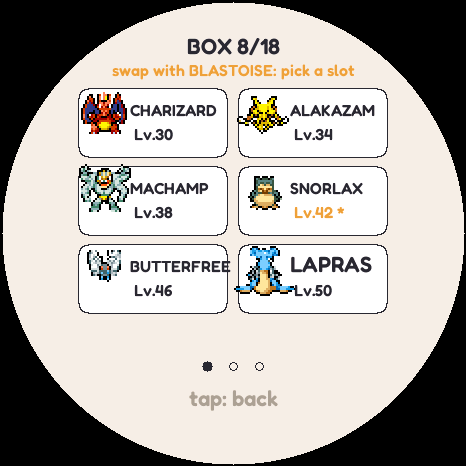
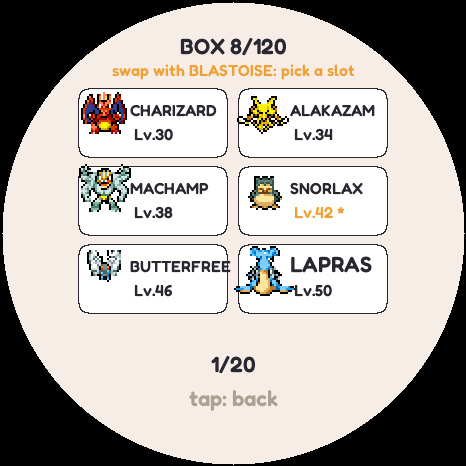
Grow the box from 18 to 120 slots
The box blob goes from 540 B to 3600 B, still under the ~4000 B single-page
NVS limit. A box saved at 18 slots is read as a prefix and rewritten at the
new size once; without that branch the grown box came up empty.

EXPORT would have dropped the box: MAX_VAL was a fixed 768 and readField()
skips anything larger as if absent. It now derives from BOX_SLOTS, and the
console's export/import buffers are SAVE_EXPORT_MAX, static_asserted against
the party and box sizes and allocated on first use.

The box screen shows a page number instead of dots, which no longer fit.

Changed region(s): [[0.3906, 0.0601, 0.6309, 0.1202], [0.4206, 0.7511, 0.5708, 0.8112]]

diff --git a/save.cpp b/save.cpp
@@ -1,4 +1,5 @@
 #include "save.h"
+#include "party.h"
 #include <Arduino.h>
 #include <Preferences.h>
 #include <string.h>
@@ -42,7 +43,11 @@ const SaveField SAVE_FIELDS[] = {
 };
 const uint16_t SAVE_FIELD_COUNT = sizeof(SAVE_FIELDS) / sizeof(SAVE_FIELDS[0]);
 
-#define MAX_VAL 768        // the box is the largest, at 18 records
+// The largest value is the box blob. Derived, not restated: at a fixed 768 the
+// 120-slot box exceeded it and readField() skipped the box as if it were absent.
+#define MAX_VAL (sizeof(PartyMon) * BOX_SLOTS)
+static_assert(sizeof(PartyMon) * (BOX_SLOTS + PARTY_SLOTS) + 1536 <= SAVE_EXPORT_MAX,
+              "SAVE_EXPORT_MAX no longer holds a full party and box");
 
 static uint16_t crc16(const uint8_t *p, size_t n) {
   uint16_t c = 0xFFFF;
@@ -116,7 +121,7 @@ size_t saveExportSize() {
   size_t n = SAVE_HDR + 2;
   for (uint16_t i = 0; i < SAVE_FIELD_COUNT; i++)
     n += 1 + strlen(SAVE_FIELDS[i].key) + 1 + 2 + MAX_VAL / 16;
-  return n + 1024;                   // the two big blobs
+  return n + MAX_VAL + sizeof(PartyMon) * PARTY_SLOTS;   // the two big blobs
 }
 
 size_t saveExport(uint8_t *out, size_t cap) {
@@ -125,7 +130,7 @@ size_t saveExport(uint8_t *out, size_t cap) {
   p.begin("tamapoke", true);
   size_t at = SAVE_HDR;
   uint16_t count = 0;
-  uint8_t val[MAX_VAL];
+  static uint8_t val[MAX_VAL];   // 3.6 KB: too big for the loop task's stack
   for (uint16_t i = 0; i < SAVE_FIELD_COUNT; i++) {
     const SaveField &f = SAVE_FIELDS[i];
     int n = readField(p, f, val);

diff --git a/tools/emu/tests/box_test.cpp b/tools/emu/tests/box_test.cpp
@@ -30,6 +30,24 @@ int main(){
   ck(kept, "a pre-box save keeps its whole party");
   ck(p.boxCount()==0, "and comes up with an empty box, not garbage");
 
+  // a box written when it had 18 slots must survive the box growing
+  { Preferences seed; seed.begin("tamapoke", false);
+    PartyMon old[18];
+    for (int i=0;i<18;i++) old[i]=mk(1+i*7, 10+i);
+    seed.putBytes("box", old, sizeof(old));
+    seed.end(); }
+  { Party g; g.begin();
+    bool same = true;
+    for (int i=0;i<18;i++) if (g.box[i].dex != 1+i*7 || g.box[i].level != 10+i) same=false;
+    ck(same, "an 18-slot box keeps every creature after the box grows");
+    ck(g.boxCount()==18, "and the new slots come up empty");
+    Preferences chk; chk.begin("tamapoke", true);
+    ck(chk.getBytesLength("box")==sizeof(g.box), "and is rewritten at the new size once");
+    chk.end();
+    for (int i=0;i<BOX_SLOTS;i++) g.box[i]=PartyMon();
+    g.boxSave(); }
+  p.begin();
+
   // deposit: party slot 0 <-> empty box slot 0
   int16_t was = p.slots[0].dex;
   p.swapPartyBox(0, 0);

diff --git a/party.cpp b/party.cpp
@@ -69,6 +69,15 @@ void Party::begin() {
         memcpy(box, tmp, sizeof(box));
       free(tmp);
     }
+  } else if (boxStored && boxStored < sizeof(box) &&
+             boxStored % sizeof(PartyMon) == 0) {
+    // A build with FEWER box slots (18 before v3.30). The box key has only ever
+    // been written at today's stride -- moves[] was appended to PartyMon before
+    // the box existed -- so a shorter blob is a prefix of ours: read it into the
+    // front and leave the new slots empty. Without this branch growing the box
+    // silently emptied every player's existing one.
+    prefs.getBytes("box", box, boxStored);
+    boxSave();   // rewrite at the new size so this only happens once
   }
   for (auto &s : box) {
     if (s.dex < 1 || s.dex > DEX_COUNT) s.dex = 0;

diff --git a/party.h b/party.h
@@ -14,7 +14,10 @@
 // and the length-based migration in begin() cannot tell a stride change from a
 // slot-count change, so an existing party would be read back misaligned. A new
 // key is purely additive and cannot corrupt anything.
-#define BOX_SLOTS 18
+// 120 slots is a 3600-byte blob: under the ~4000-byte single-page NVS limit, and
+// NVS rewrites a blob before erasing the old copy, so a save briefly needs twice
+// that free. Going much higher means splitting the key or moving to the SD card.
+#define BOX_SLOTS 120
 #define MOVE_SLOTS 4    // the same four every trainer gets in the real games
 
 // A retired pet. Its level is frozen at the moment it joined; it does not keep

diff --git a/save.h b/save.h
@@ -47,3 +47,7 @@ bool saveImport(const uint8_t *in, size_t n);
 
 // Roughly what saveExport needs, for sizing a buffer.
 size_t saveExportSize();
+
+// A buffer this big holds any export. save.cpp static_asserts it against the
+// party and box sizes, so growing either fails the build instead of EXPORT.
+#define SAVE_EXPORT_MAX 6144

diff --git a/tools/emu/tests/save_test.cpp b/tools/emu/tests/save_test.cpp
@@ -72,7 +72,7 @@ int main(){
     ck(inTable.size()==SAVE_FIELD_COUNT, "and the table has no duplicates");
   }
 
-  static uint8_t buf[2048];
+  static uint8_t buf[SAVE_EXPORT_MAX];
   size_t n = saveExport(buf, sizeof(buf));
   ck(n > 0, "a save exports");
   ck(n < sizeof(buf), "and fits a sensible buffer");

diff --git a/tools/emu/tests/upgrade_test.cpp b/tools/emu/tests/upgrade_test.cpp
@@ -151,7 +151,7 @@ int main(){
 
   // --- and the whole thing can then be backed up and restored
   {
-    static uint8_t buf[2048];
+    static uint8_t buf[SAVE_EXPORT_MAX];
     size_t n = saveExport(buf, sizeof(buf));
     ck(n > 0, "an upgraded save exports");
     pet.factoryReset();

diff --git a/CLAUDE.md b/CLAUDE.md
@@ -707,7 +707,7 @@ the volume curve. The amplitude scale in particular (`500 * vol`) is a guess at
 what sounds linear. This is part of what the soak test is for.
 
 **B. Storage and the box -- DONE.**
-- The box is 18 slots (3 pages of 6) under its OWN NVS key, not a bigger party
+- The box is 120 slots (20 pages of 6, a page number rather than dots) under its OWN NVS key, not a bigger party
   blob. That was deliberate: growing the party blob changes its stride, and the
   length-based migration in `begin()` cannot tell a stride change from a
   slot-count change, so an existing party would have been read back misaligned.
@@ -715,8 +715,13 @@ what sounds linear. This is part of what the soak test is for.
   checks a pre-box save keeps its whole party and comes up with an empty box.
 - `swapPartyBox()` is one call for deposit, withdraw and exchange, since any of
   the two slots may be empty. Reached by tapping a party slot then BOX.
-- Room to grow: 6 + 18 records is 720 B against a ~4000 B single-blob limit, so
-  the box could reach ~120 before it would need splitting.
+- Grown 18 -> 120 in v3.30: a 3600 B blob against a ~4000 B single-page limit,
+  in a 20 KB NVS partition (~16 KB usable, ~6 KB left after the box and the
+  rewrite headroom NVS needs). Going past ~120 means splitting the key or the SD
+  card. A shorter box blob is read as a prefix (`box_test` covers 18 -> 120).
+  `MAX_VAL` in `save.cpp` derives from `BOX_SLOTS` -- at its old fixed 768,
+  EXPORT silently skipped the grown box as if absent. Export buffers are
+  `SAVE_EXPORT_MAX`, static_asserted against the party and box sizes.
 - A farewell now falls through party -> box, and only a full party AND a full
   box makes the player choose who to replace. That is what the box is for.
 
